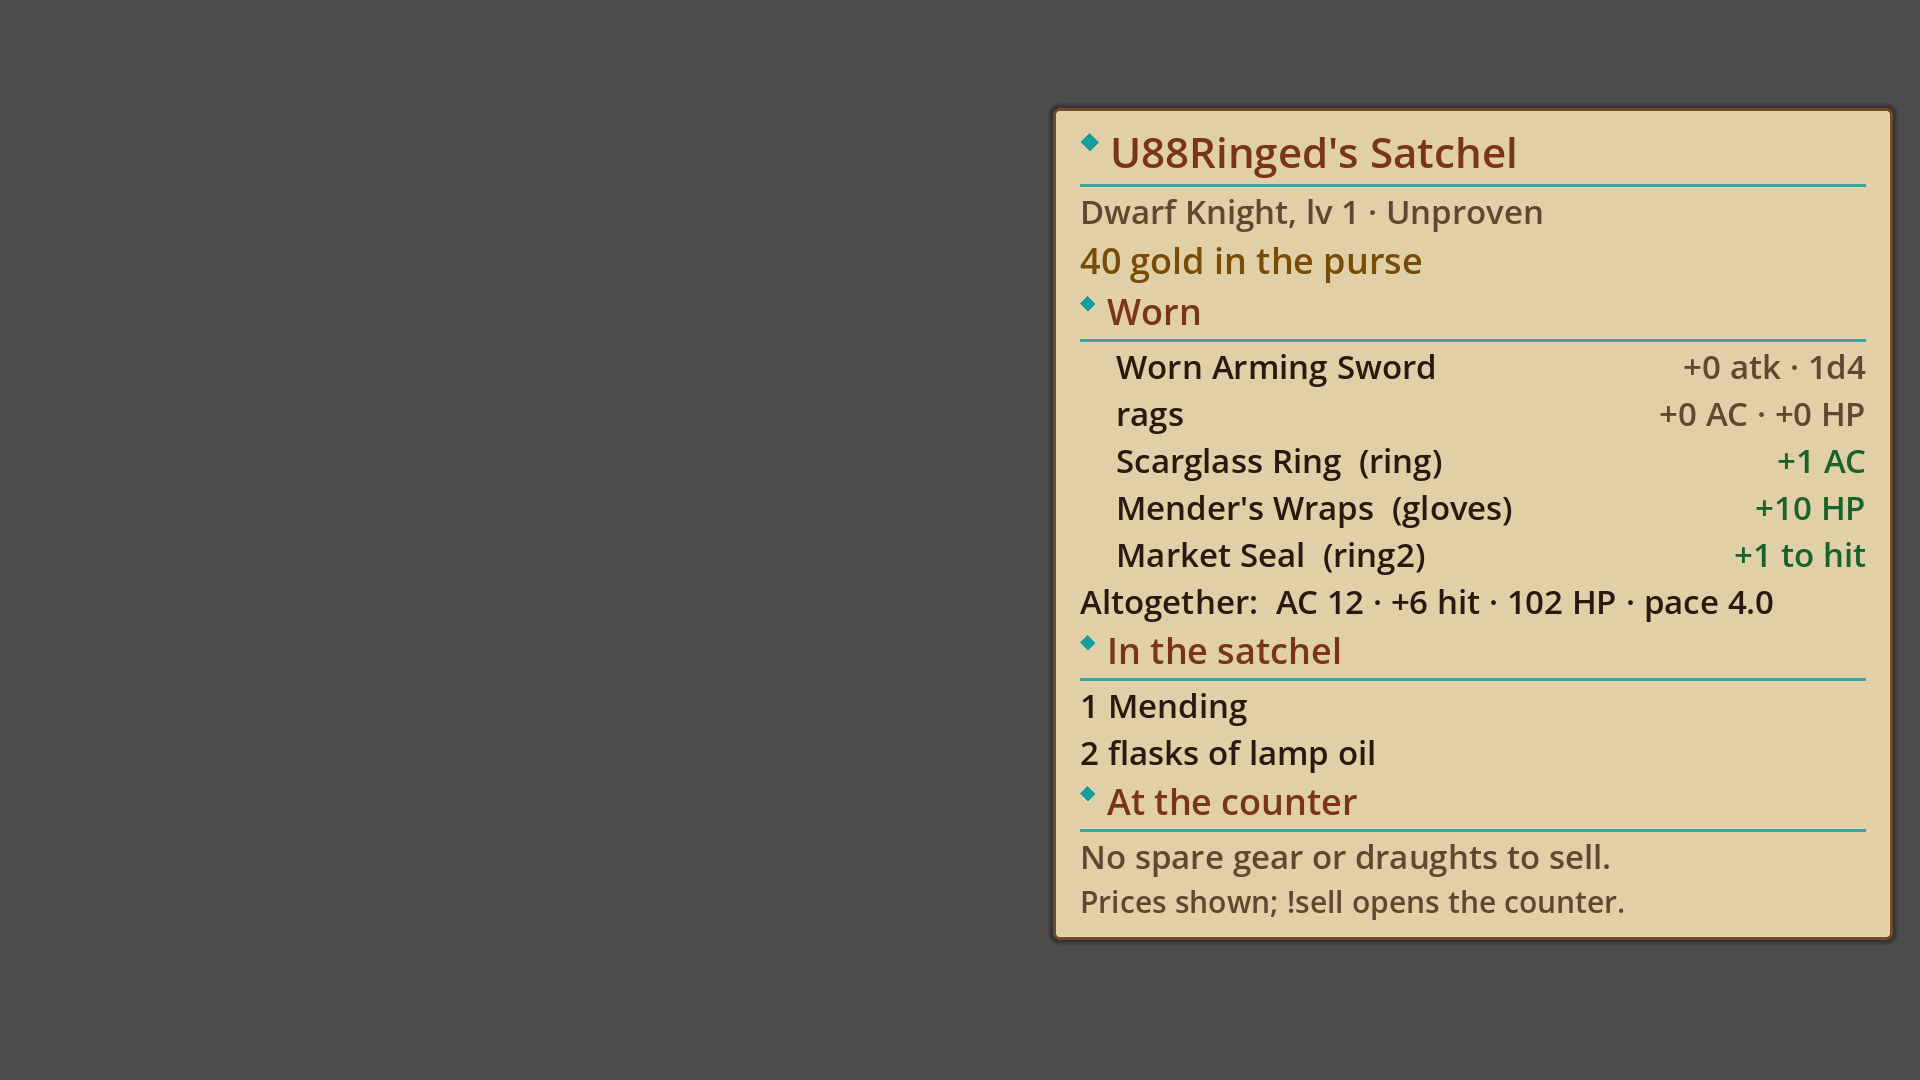
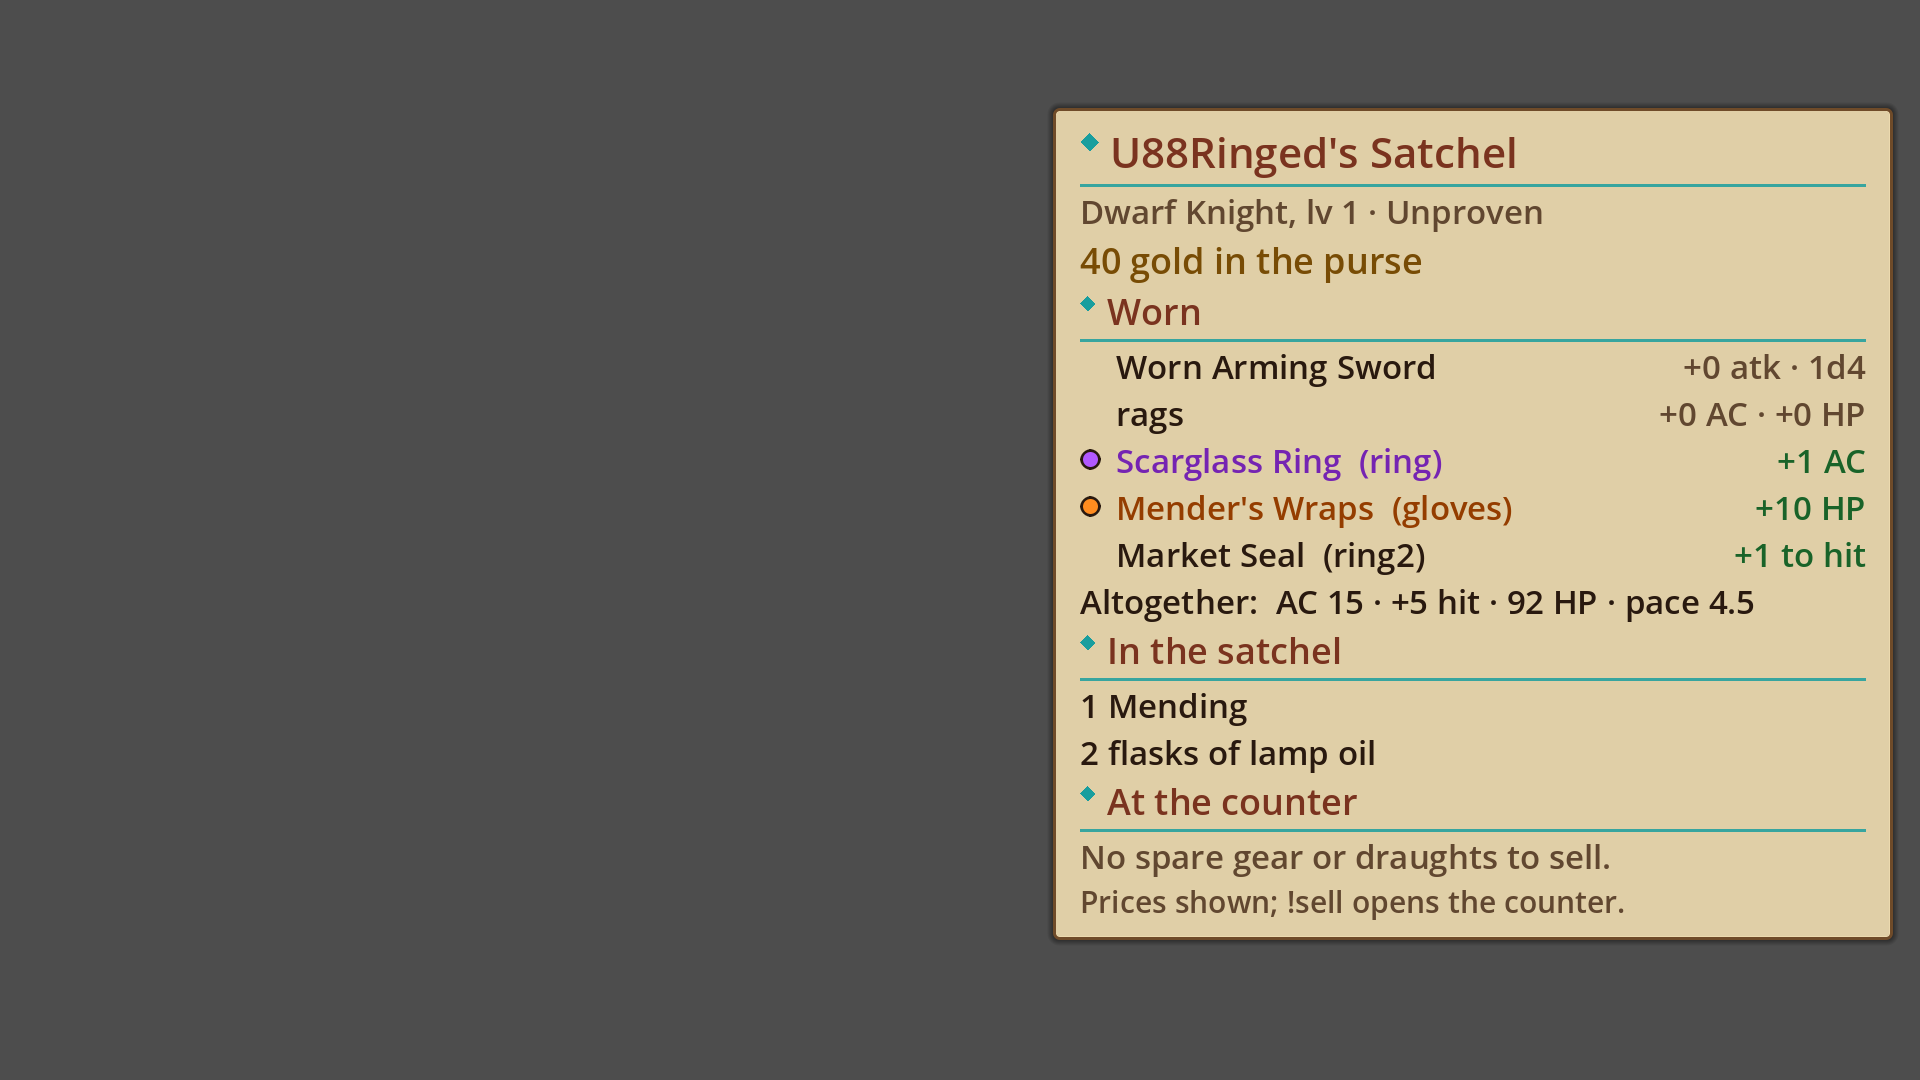
U89: U88 green capture re-taken - pips visible in the committed shots (purple/orange pixels counted)

Changed region(s): [[0.5625, 0.3972, 0.7812, 0.4889], [0.7812, 0.55, 0.9375, 0.5806]]

diff --git a/PROGRESS.md b/PROGRESS.md
@@ -10024,3 +10024,11 @@ LOOKED AT (renders/cycles/u88/u88_150.png): purple pip + purple ink on Scarglass
 Parse: bare headless exit 0; the only errors are the known worktree import-cache gap (gear .glb loads / instantiate on null), not HUD.
 Not done: L74 feed under load (FeedHUD still not walked by the theme sweep; floor _panels<12 fragility unchanged). Next firing.
 Nothing for Mr. E to decide.
+
+## U89 (19 Nov 20:5x CST) - U88 GREEN CAPTURE RE-TAKEN: the committed shots now show the pips (the 19:56 files were the red-proof overwrite)
+Item: TAKE THIS NEXT row 6 (HUD, 19:58 block) - re-run so the green capture is the last write. Lock free (game build IDLE 20:14, no Godot); claimed 20:53, IDLE 20:54, well inside the cap.
+Run: tools/_u88_worn.gd WINDOWED 1920x1080, no red run this time and no source edit, so nothing can overwrite the shots. U88_WORN OK rc=0; ROWS @1.5 Scarglass Ring true, Mender's Wraps true, Worn Arming Sword / rags / Market Seal false.
+Pixel count (not just the log): purple pixels 1006 / 1679 / 2422 and orange 68 / 112 / 169 at 100 / 125 / 150 (the committed 19:56 files had zero).
+LOOKED AT (renders/cycles/u88/u88_150.png): purple pip + purple ink on Scarglass Ring, orange pip + orange ink on Mender's Wraps, Market Seal, sword and rags bare with names aligned in the pip column, values right-aligned.
+Red proof stays the 19:56 one (argument stripped -> rc=1, 2 FAILs per scale); it is recorded in U88 above and I did not repeat it, to keep the shots intact.
+Next: L74 feed under load (make FeedHUD countable by the theme sweep). Nothing for Mr. E to decide.
